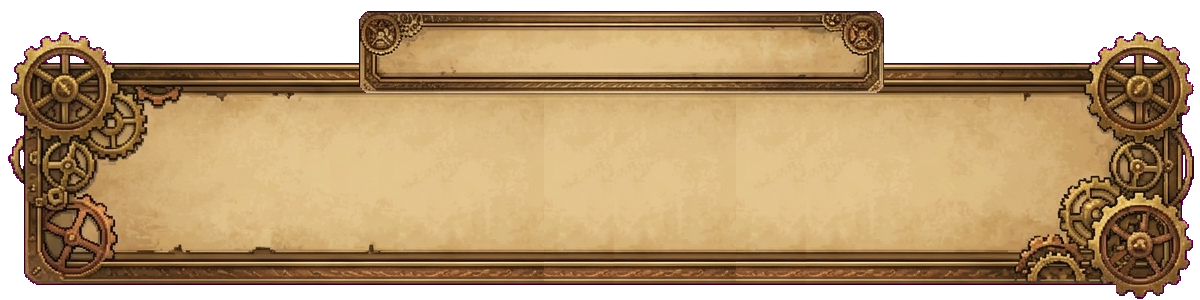
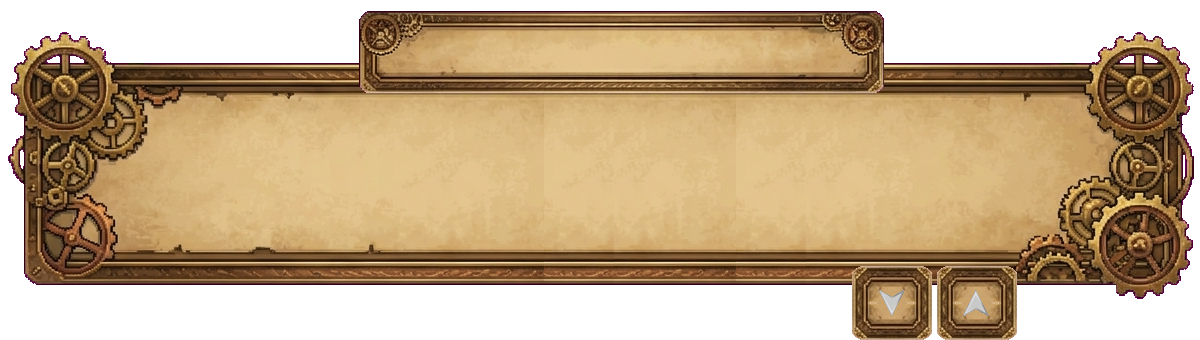
docs: finalize chest UI documentation and verification
- Updated implementation_plan.md with arrow hover specifications and mapping.
- Verified system stability with 18 unit tests (100% pass).
- Confirmed coverage at 94% for chest.py.

diff --git a/src/ui/chest.py b/src/ui/chest.py
@@ -30,8 +30,8 @@ _TARGET_WIDTH = 900   # pixels – scaled width of the background
 # Arrow button zones (measured from 1200x340 source image, auto-scaled)
 _ARROW_UP_ZONE_REL   = (0.7233, 0.8294, 0.7625, 0.9500)  # red zone → up arrow
 _ARROW_DOWN_ZONE_REL = (0.7942, 0.8294, 0.8333, 0.9500)  # blue zone → down arrow
-_ARROW_OFFSET_X = 0  # px fine-tune horizontal (escape hatch)
-_ARROW_OFFSET_Y = 0  # px fine-tune vertical   (escape hatch)
+_ARROW_OFFSET_X = 1  # px fine-tune horizontal (escape hatch)
+_ARROW_OFFSET_Y = 1  # px fine-tune vertical   (escape hatch)
 
 class ChestUI:
     """Public interface for the chest overlay.
